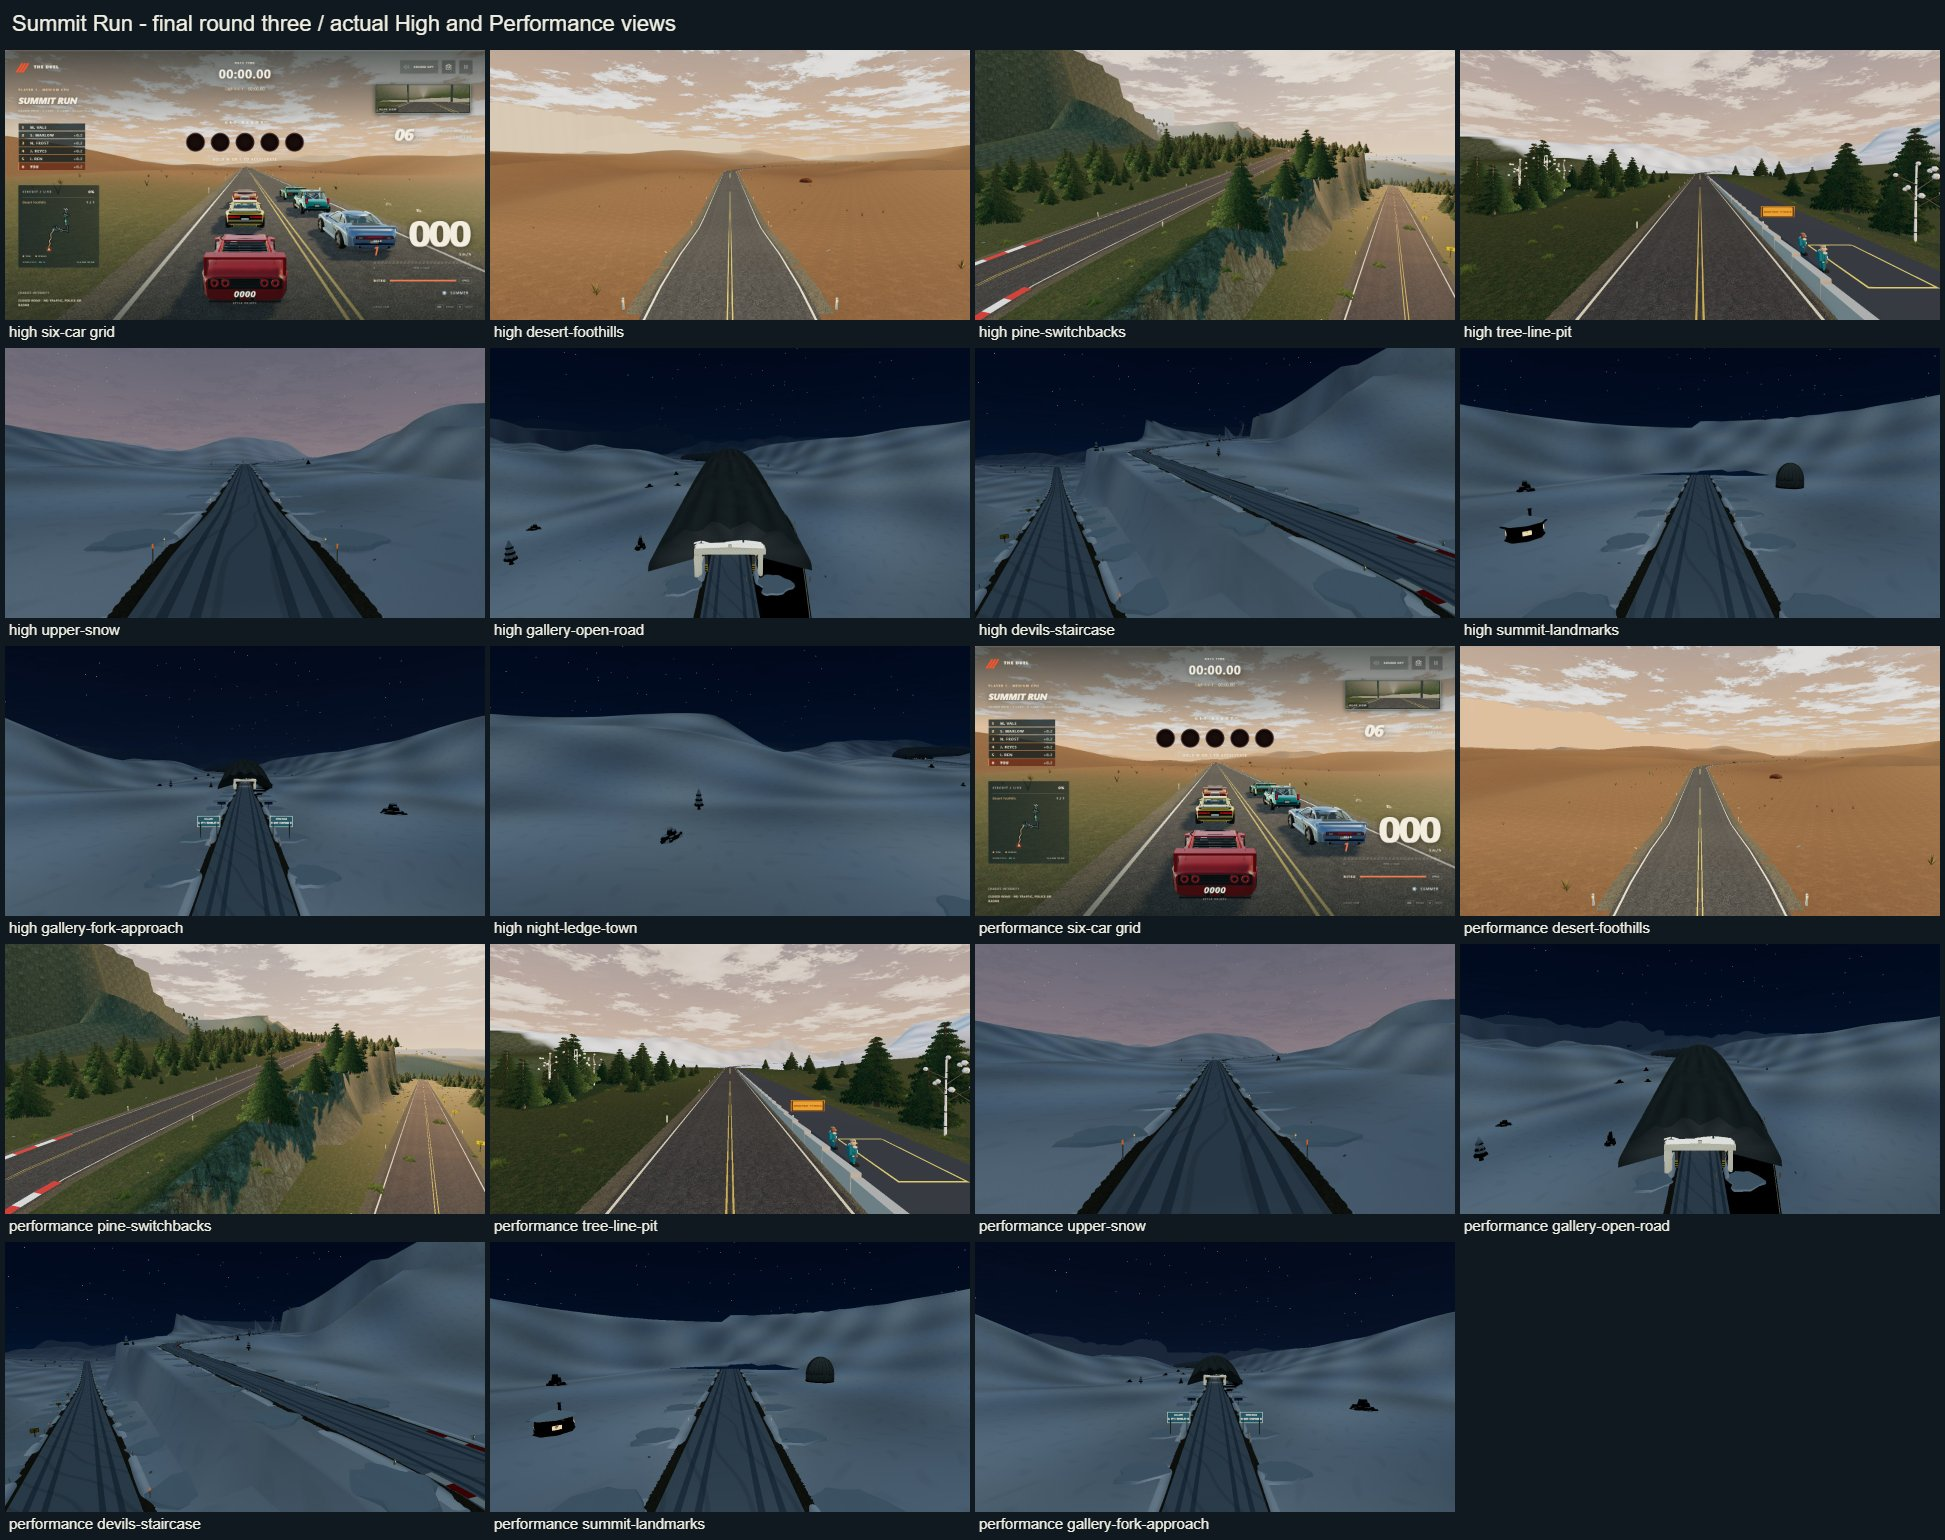
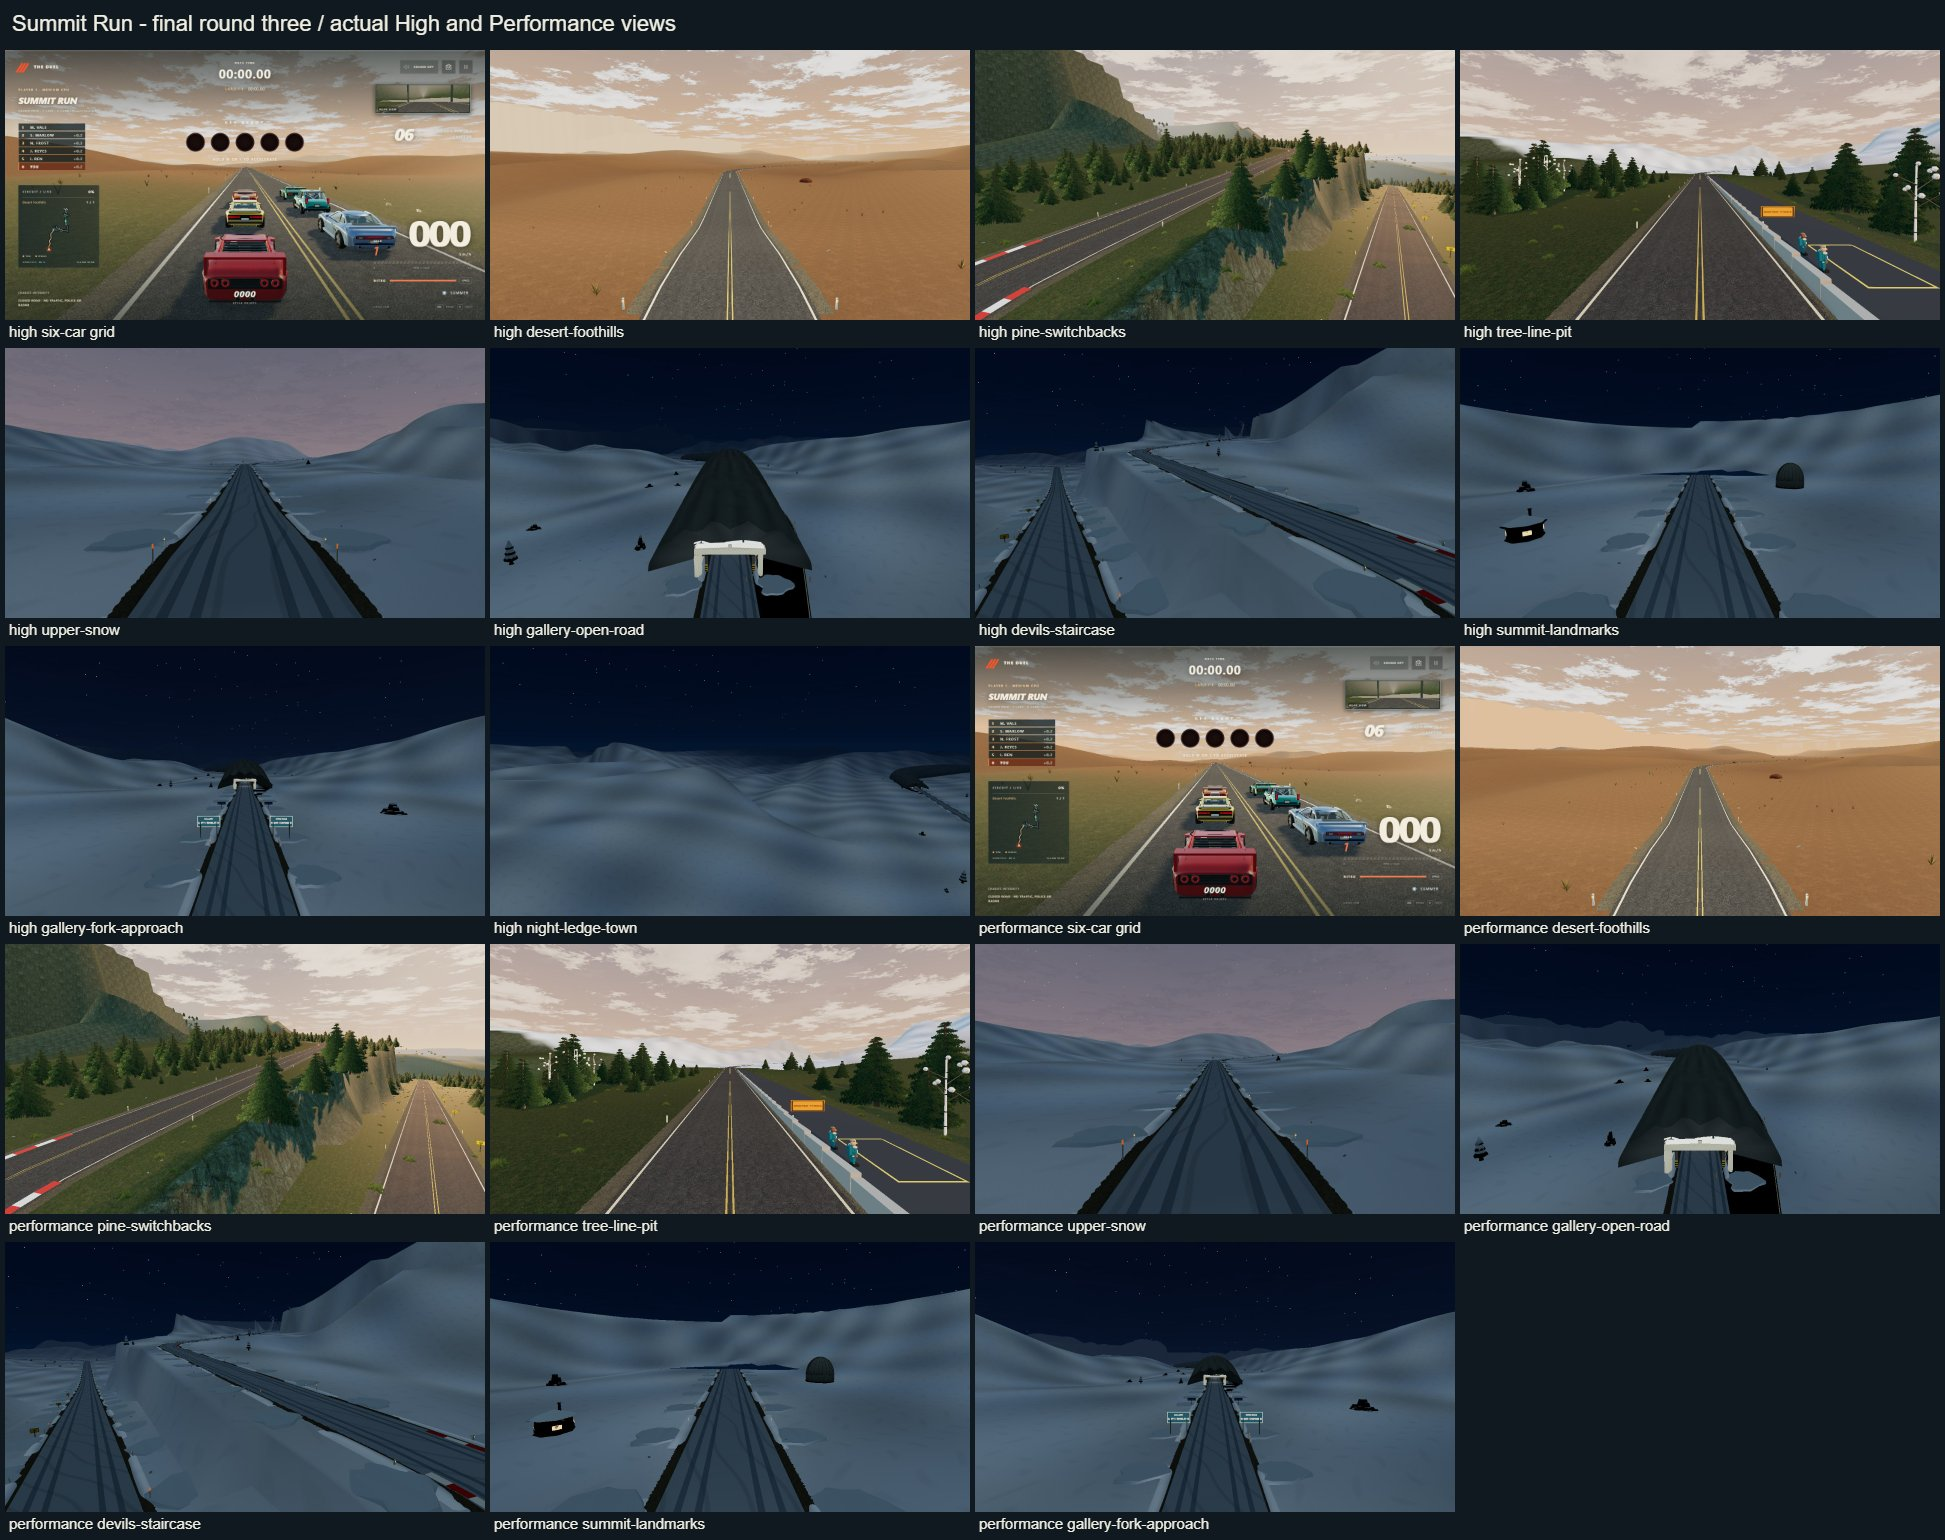
Freeze final Summit camera result and reviewed scene signature

diff --git a/docs/board/looks/p4-summit/round-3-review.md b/docs/board/looks/p4-summit/round-3-review.md
@@ -4,9 +4,9 @@ Claude's final verdict is pending. This source does not claim art, route-strateg
 
 Claude's 13 October 08:40 round-two verdict keeps the desert, pines and tree line. It requests a pale concrete shed with pillars and warm lamps, varied snow and tyre tracks, dark grounded outcrops, orange-tip poles every fifty metres, lower separated plough heaps, lit hut/observatory windows and a darker Open Road. It also requests one night Ledge view with distant town lights below. The round-one hold and round-two observations are consumed here; old evidence/sheets owned by others remain for Root's authorized cleanup.
 
-The actual existing harness captured nineteen views on private port34439, with zero warnings/errors/issues and memory-only storage. Original eighteen views/camera values remain; the nineteenth is High night-Ledge looking toward actual lower course station5800. Every snapshot preserves native race state, profile and memory storage. No timing, new model, bitmap render or fourth round was introduced. The independently integrated Avalanche fix is preserved: Gallery end10800,35tiles, unchanged physics/route rules.
+The actual existing harness captured nineteen views on private port53878, with zero warnings/errors/issues and memory-only storage. Original eighteen views/camera values remain; the nineteenth is High night-Ledge looking toward actual lower course station5800. Every snapshot preserves native race state, profile and memory storage. No timing, new model, bitmap render or fourth round was introduced. The independently integrated Avalanche fix is preserved: Gallery end10800,35tiles, unchanged physics/route rules.
 
-Sheet round-3.jpg: 382212 bytes,1945x1540,JPEG.85, SHA256 8e01fb79985724e204533254d5dff66c9ec3ea1f74a51af02d65b52303bba806.
+Sheet round-3.jpg: 383190 bytes,1945x1540,JPEG.85, SHA256 2b849bae85b072e1da769760a3fd9379f810ca56874e23646ef6d1c063c43b06.
 
 ## What changed and what the picture proves
 
@@ -16,7 +16,7 @@ Actual builder observations: terrain variation, edge poles and lower separated h
 
 ## Actual Ledge limitation
 
-Forty-eight town-light points are constructed on real lower valley ground: y ranges 151.461108 to 183.244543m. Actual Ledge eye is [2917.5009784204753, 601.94, 5774.531419448733]. The added view does **not** visibly show those town lights because real terrain occludes the lower rows. Their grounded source receipt proves placement, not visibility or art acceptance. No invented elevation, painted light/sky composite, visibility override or extra capture fitting was used. This limitation goes to Claude with the final sheet; his judgment is required.
+Forty-eight town-light points are constructed on real lower valley ground: y ranges 151.461108 to 183.244543m. Actual Ledge eye is [2917.5009784204753, 673.94, 5774.531419448733]. The added view does **not** visibly show those town lights because real terrain occludes the lower rows. Their grounded source receipt proves placement, not visibility or art acceptance. No invented elevation, painted light/sky composite, visibility override or extra capture fitting was used. This limitation goes to Claude with the final sheet; his judgment is required.
 
 ## Source checks
 
@@ -25,3 +25,6 @@ New existing Summit assertions exercise constructed poles, matching fifty-metre 
 ## Removed
 
 The continuous raised gutter presentation is replaced only for Summit by lower heaps with gaps. The old dark shed wash and weak window intensity values are replaced by authored visual values. Earlier sheets/evidence made by other owners remain for Root; this final sheet uses no duplicated asset/archive. Summit remains dev; art and gameplay timing remain pending.
+
+
+Root allowed one final change only to the added Ledge camera up18 to90m; all original eighteen camera values, town rows, terrain and lighting remain exact. The single bounded recapture completed before09:16. The town lights are still occluded in the actual final image. Camera fitting stopped once that result was known; there is no more art capture or fourth round. Prior draft evidence made here will be recycled after its true verdict is recorded; earlier owners' sheets stay for Root.
